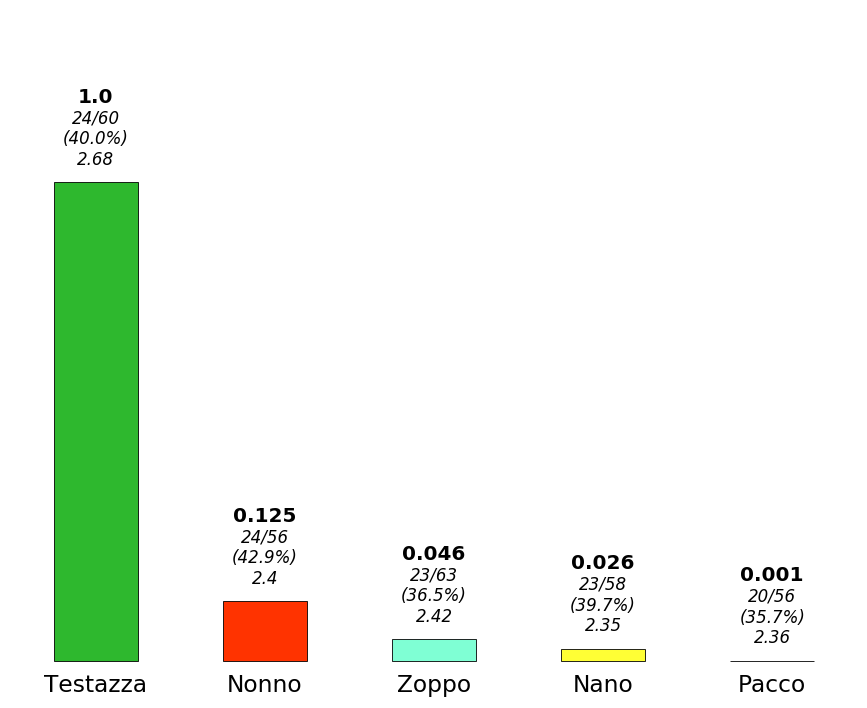
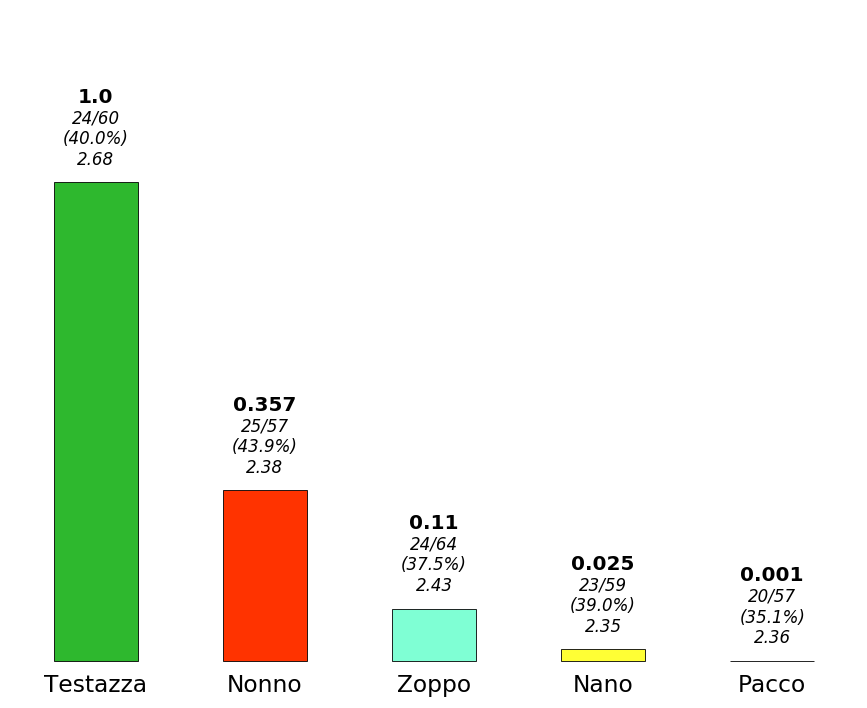
fields not used anymore by lottomatica deleted from db, fields2avoid in all_bet_per_team deleted

Changed region(s): [[0.2491, 0.5593, 0.3737, 0.8701], [0.436, 0.7147, 0.5606, 0.9011], [0.654, 0.7768, 0.7474, 0.9011]]

diff --git a/Functions/bot_functions.py b/Functions/bot_functions.py
@@ -22,10 +22,6 @@ def all_bets_per_team(team_name, league_id):
 	:return: (str, str)
 	"""
 
-	fields2avoid = ([str(i) for i in range(4, 14)] +
-	                [str(i) for i in range(17, 31)] +
-	                [str(i) for i in range(152, 157)])
-
 	try:
 		match_id, team1, team2 = dbf.db_select(
 				table='matches',
@@ -44,8 +40,7 @@ def all_bets_per_team(team_name, league_id):
 
 	fields = dbf.db_select(
 			table='fields',
-			columns_in=['field_id', 'field_value'],
-			where='field_id NOT IN ({})'.format(','.join(fields2avoid)))
+			columns_in=['field_id', 'field_value'])
 
 	fields_added = []
 	COMBO = False
